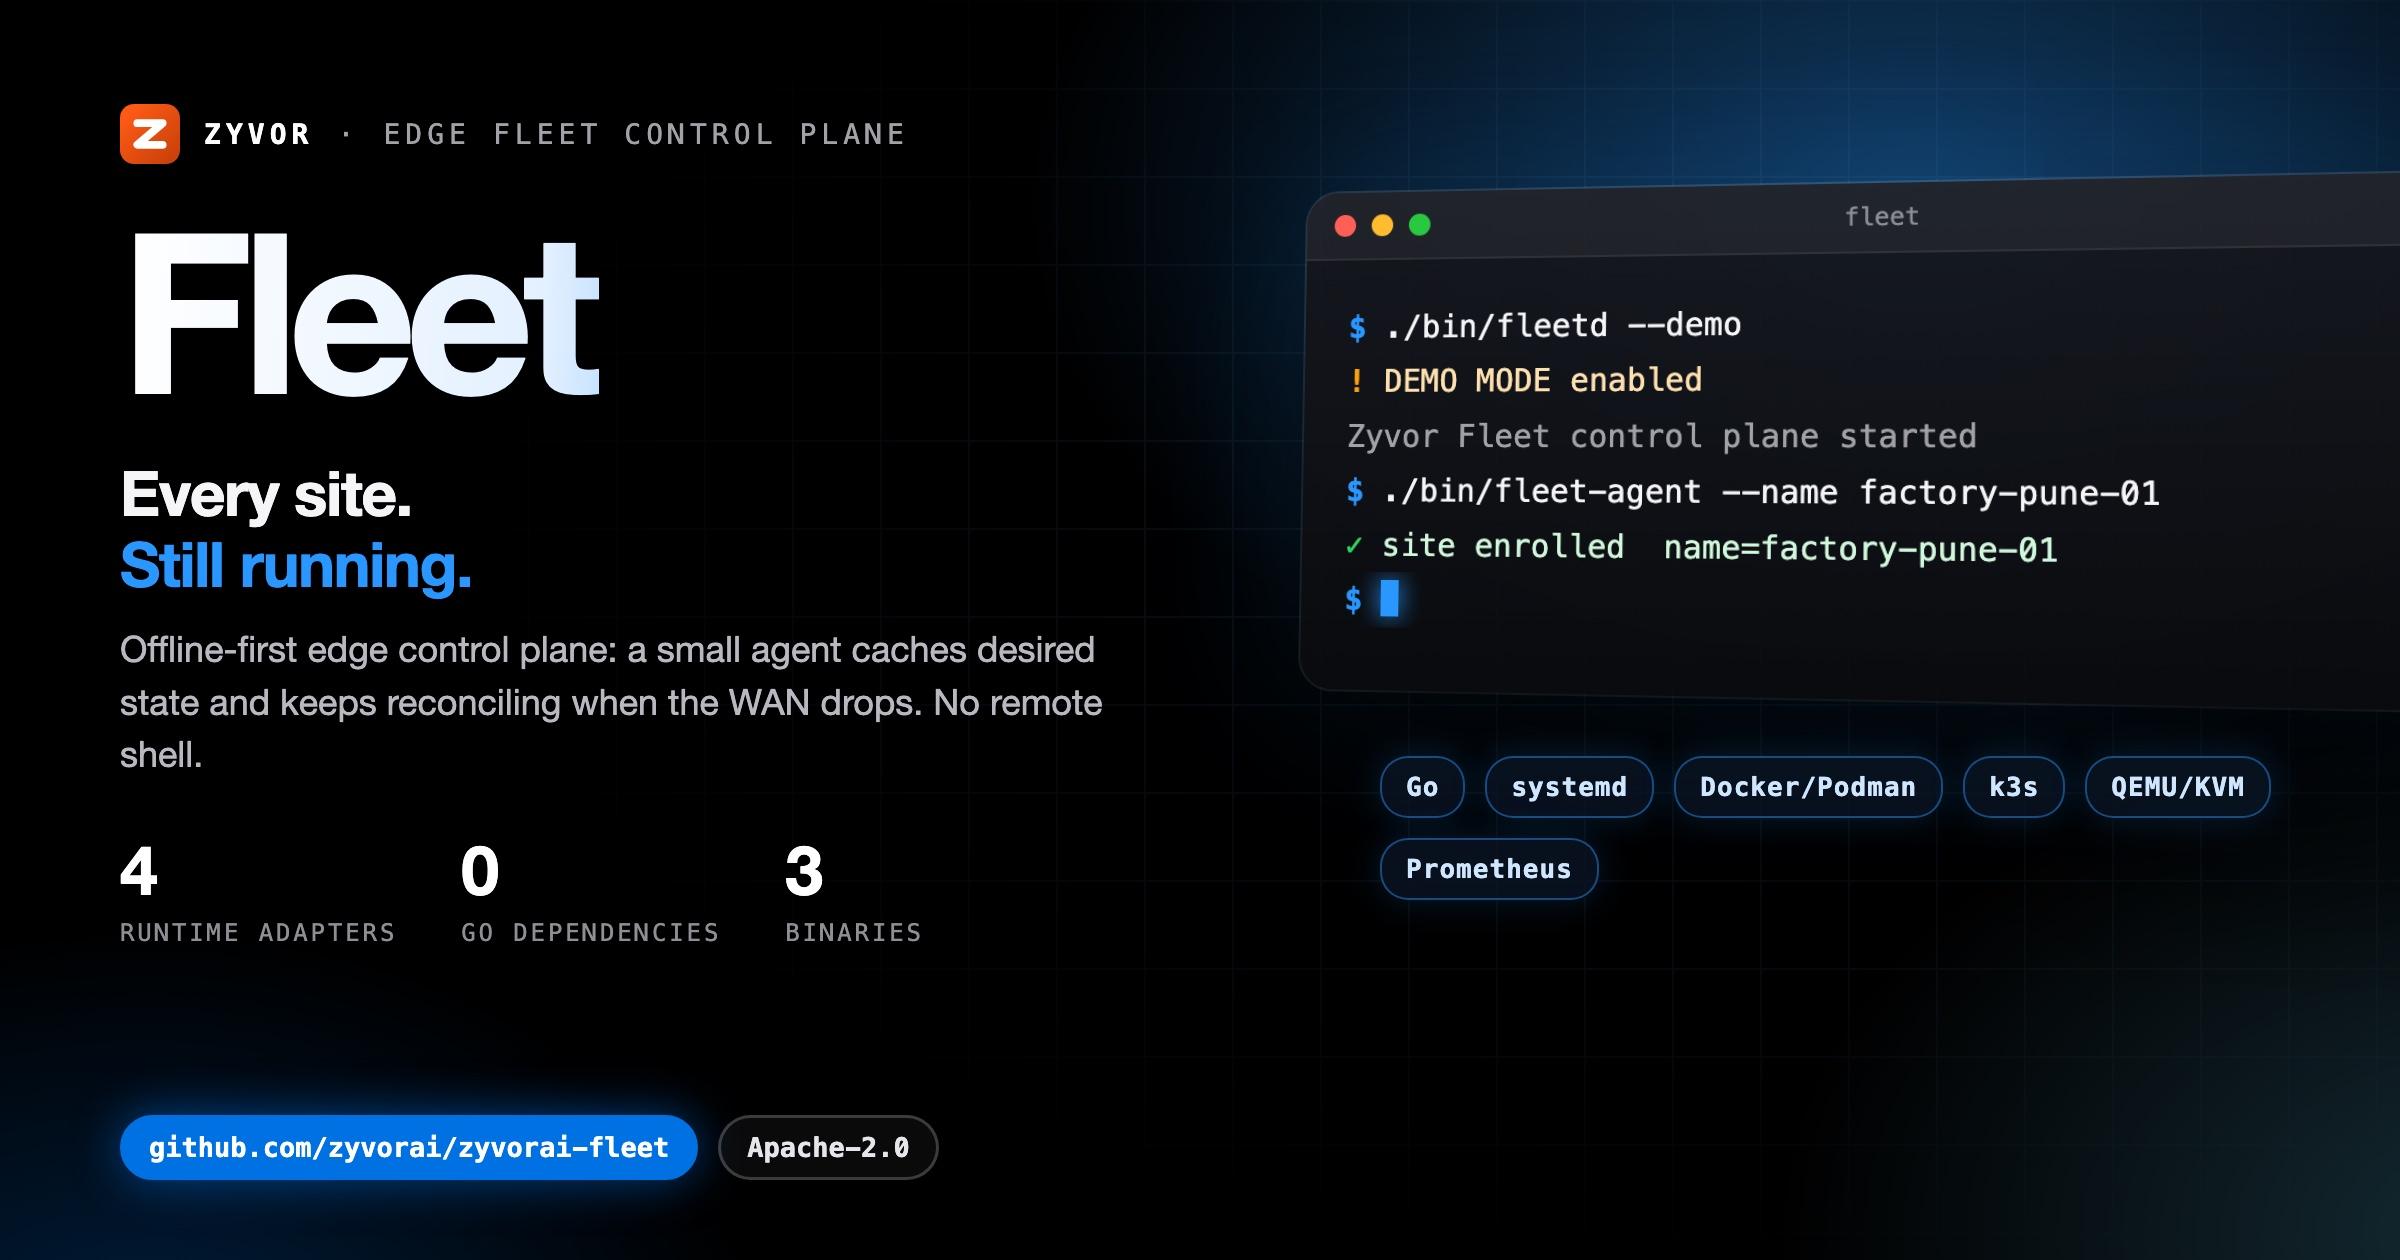
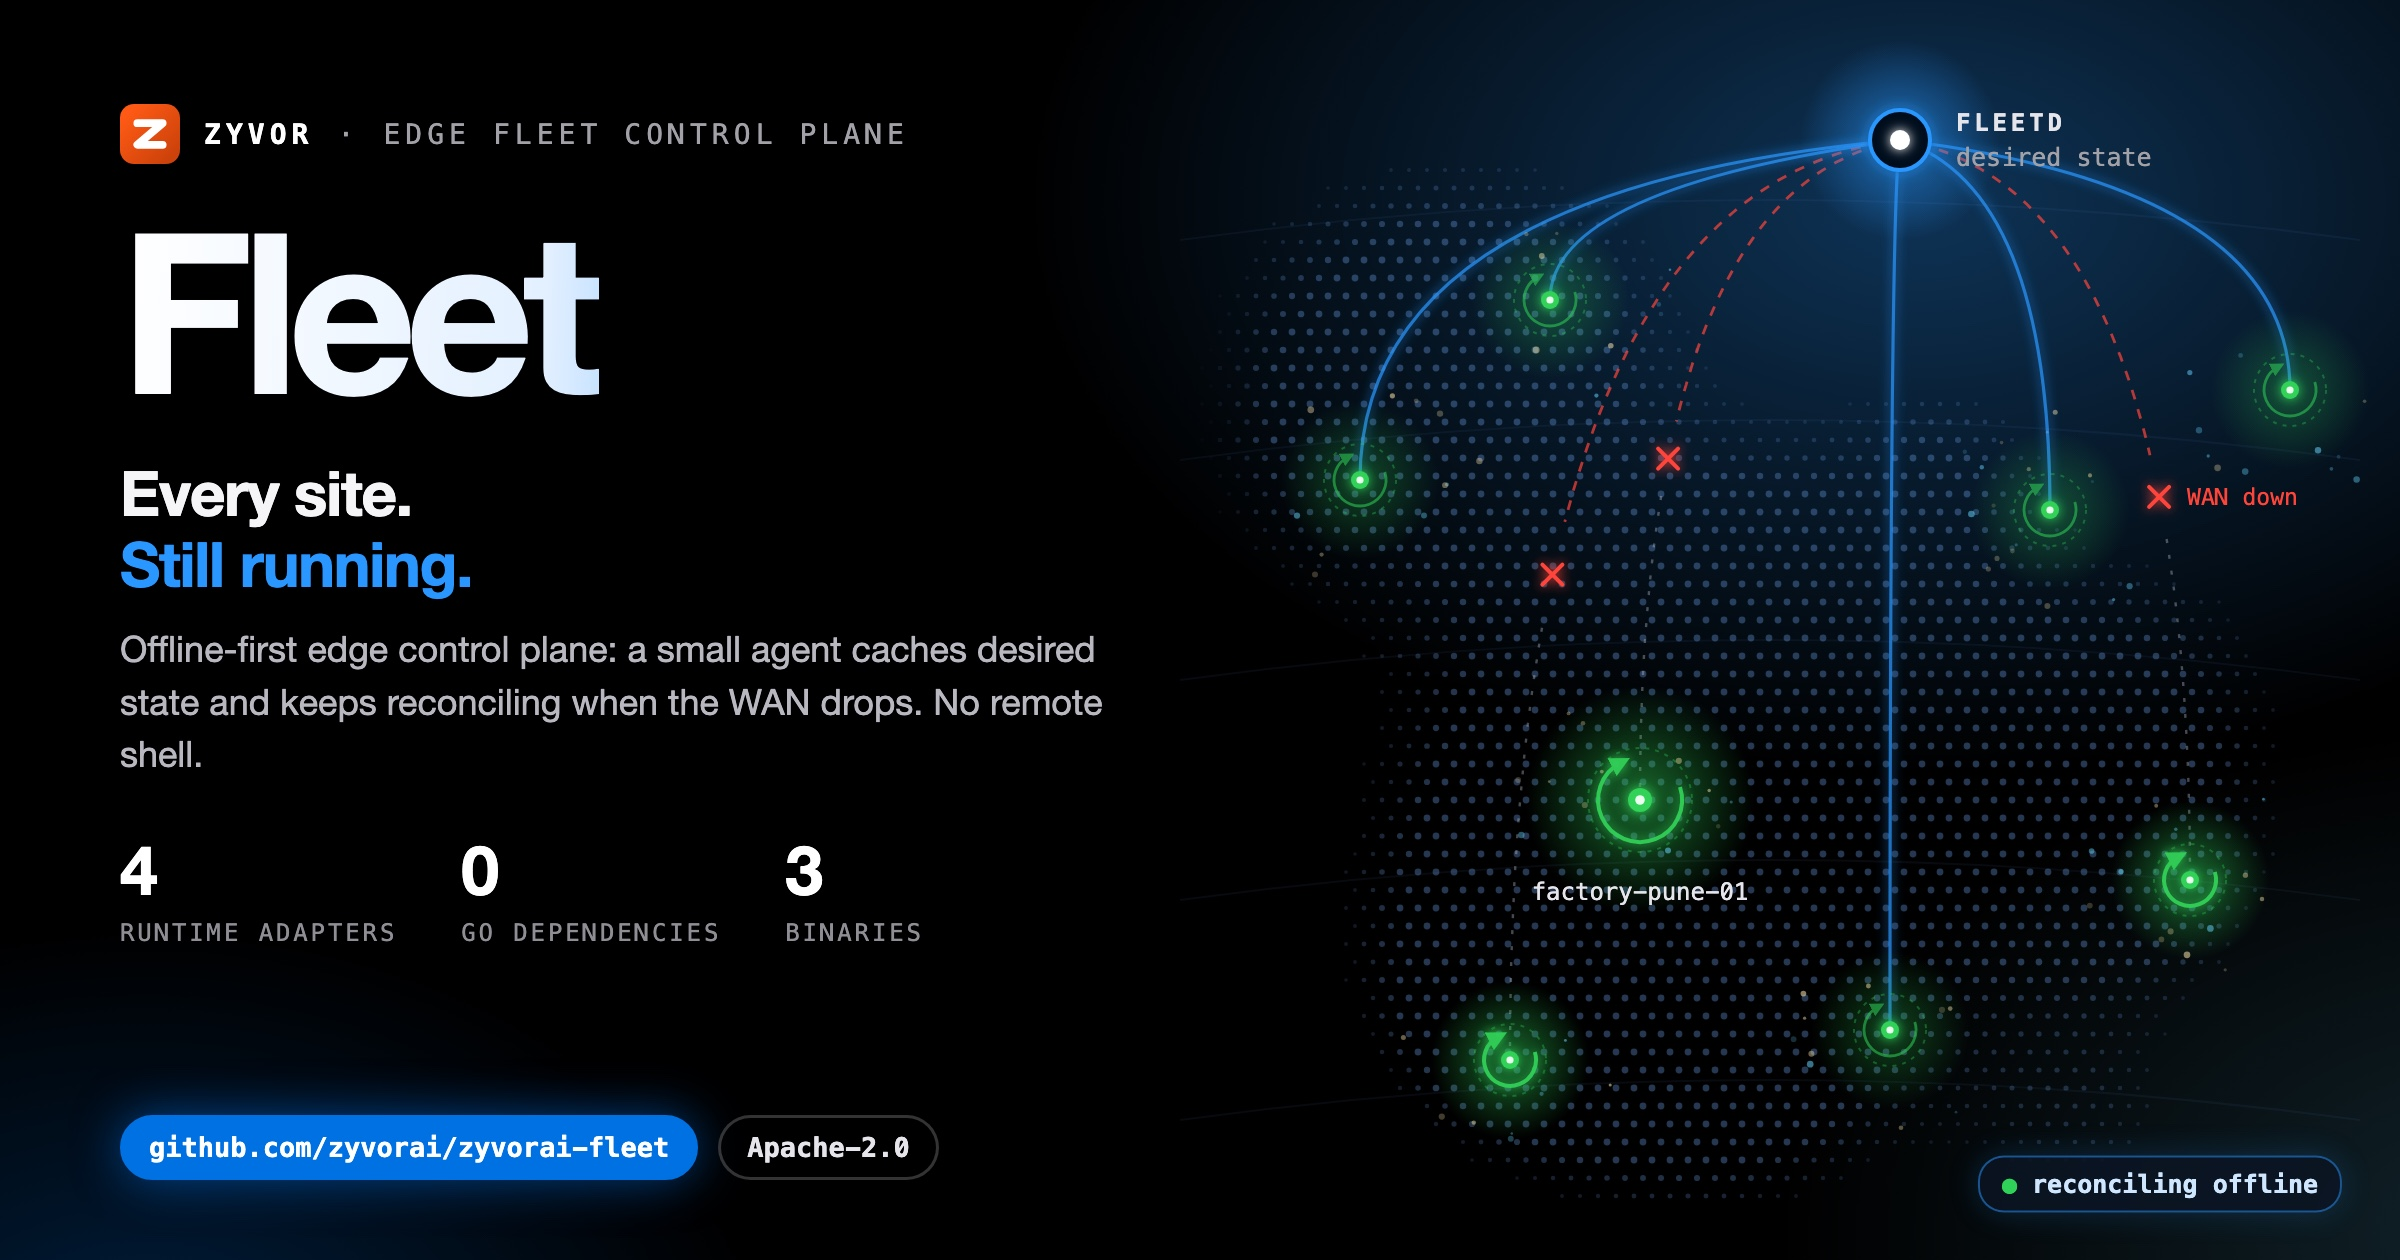
docs(social): unique illustrated hero card
Replace the shared terminal-window art with a motif drawn for this project;
same verified copy and stats on the left.

Changed region(s): [[0.5312, 0.0619, 1.0, 0.9286], [0.8125, 0.8976, 0.9688, 0.9905]]

diff --git a/docs/social/fleet-hero-dark.html b/docs/social/fleet-hero-dark.html
@@ -8,58 +8,47 @@
   Build: ./docs/social/build-hero-dark.sh  ->  fleet-hero-dark.jpg (2400x1260)
 -->
 <style>
-  :root { --blue:#0071e3; --signal:#2997ff; --cyan:#64d2ff; --green:#30d158; --amber:#ff9f0a;
+  :root { --blue:#0071e3; --signal:#2997ff; --cyan:#64d2ff; --green:#30d158; --amber:#ff9f0a; --red:#ff453a; --violet:#bf5af2;
     --sans:'SF Pro Display','Helvetica Neue',Helvetica,Arial,sans-serif; --mono:'SF Mono',Menlo,Consolas,monospace; }
   * { box-sizing:border-box; }
   html,body { margin:0; padding:0; }
   body { width:1200px; height:630px; overflow:hidden; color:#f5f5f7; font-family:var(--sans); position:relative; background:#000; }
   .aurora { position:absolute; inset:0;
-    background:radial-gradient(720px 460px at 80% 16%, rgba(41,151,255,.40), transparent 62%),
-               radial-gradient(600px 420px at 104% 98%, rgba(100,210,255,.20), transparent 60%),
+    background:radial-gradient(720px 460px at 80% 16%, rgba(41,151,255,.34), transparent 62%),
+               radial-gradient(600px 420px at 104% 98%, rgba(100,210,255,.16), transparent 60%),
                radial-gradient(520px 380px at 6% 110%, rgba(0,113,227,.28), transparent 60%); }
-  .grid { position:absolute; inset:0; opacity:.09;
-    background-image:linear-gradient(rgba(120,180,255,.9) 1px,transparent 1px),linear-gradient(90deg,rgba(120,180,255,.9) 1px,transparent 1px);
-    background-size:44px 44px; -webkit-mask-image:radial-gradient(900px 520px at 72% 42%, #000 18%, transparent 75%); }
-  .left { position:absolute; left:60px; top:52px; width:560px; z-index:3; }
+  .copy { position:absolute; left:60px; top:52px; width:560px; z-index:3; }
   .brand { display:flex; align-items:center; gap:12px; font-family:var(--mono); font-size:14px; letter-spacing:.18em; text-transform:uppercase; color:#a1a1a6; }
   .brand b { color:#fff; }
   .word { margin:20px 0 0; font-size:112px; line-height:.95; font-weight:800; letter-spacing:-.05em; white-space:nowrap;
     background:linear-gradient(92deg,#fff 0%,#e3f0ff 38%,var(--signal) 74%,var(--cyan) 100%); -webkit-background-clip:text; background-clip:text; color:transparent; padding-bottom:6px; }
   .tag { margin:14px 0 0; font-size:31px; line-height:1.15; font-weight:700; letter-spacing:-.02em; }
   .tag em { font-style:normal; color:var(--signal); }
-  .lede { margin:12px 0 0; font-size:18px; line-height:1.45; color:#b8b8bf; width:520px; }
+  .lede { margin:12px 0 0; font-size:18px; line-height:1.45; color:#b8b8bf; width:520px; text-shadow:0 1px 12px #000; }
   .stats { margin-top:24px; display:flex; gap:32px; }
   .stat b { display:block; font-size:34px; font-weight:800; letter-spacing:-.03em; color:#fff; }
   .stat span { font-family:var(--mono); font-size:12px; letter-spacing:.12em; text-transform:uppercase; color:#8e8e93; }
   .pill { position:absolute; left:60px; bottom:40px; display:flex; gap:10px; z-index:3; }
-  .pill span { font-family:var(--mono); font-size:13.5px; font-weight:700; padding:7px 13px; border-radius:18px; border:1.5px solid rgba(255,255,255,.2); color:#e5e5ea; background:rgba(255,255,255,.04); }
+  .pill span { font-family:var(--mono); font-size:13.5px; font-weight:700; padding:7px 13px; border-radius:18px; border:1.5px solid rgba(255,255,255,.2); color:#e5e5ea; background:rgba(0,0,0,.6); }
   .pill span.b { background:var(--blue); border-color:var(--blue); color:#fff; box-shadow:0 0 24px rgba(0,113,227,.55); }
-
-  .right { position:absolute; left:652px; top:96px; width:560px; z-index:2; }
-  .win { position:relative; width:560px; border-radius:16px; overflow:hidden; z-index:2;
-    background:linear-gradient(180deg, rgba(22,24,30,.94), rgba(10,11,14,.96));
-    box-shadow:0 50px 100px rgba(0,0,0,.75), 0 0 0 1px rgba(255,255,255,.14), 0 0 90px rgba(41,151,255,.22);
-    transform:perspective(1600px) rotateY(-14deg) rotateX(4deg); transform-origin:left center; }
-  .bar { height:34px; display:flex; align-items:center; gap:8px; padding:0 14px; background:rgba(255,255,255,.05); border-bottom:1px solid rgba(255,255,255,.07); }
-  .bar i { width:11px; height:11px; border-radius:50%; background:#ff5f57; } .bar i:nth-child(2){background:#febc2e} .bar i:nth-child(3){background:#28c840}
-  .bar em { margin-left:auto; margin-right:auto; font-style:normal; font-family:var(--mono); font-size:12px; color:#8e8e93; transform:translateX(-24px); }
-  .term { min-height:214px; padding:20px 22px 24px; font-family:var(--mono); font-size:15.5px; line-height:1.75; }
-  .l { white-space:pre; overflow:hidden; text-overflow:ellipsis; color:#f5f5f7; }
-  .l .p { color:var(--signal); font-weight:700; }
-  .l.out { color:#a1a1a6; }
-  .l.cm { color:#6e6e73; }
-  .l.ok { color:#d1f7dc; } .l.ok span { color:var(--green); font-weight:700; }
-  .l.warn { color:#ffe1b0; } .l.warn span { color:var(--amber); font-weight:700; }
-  .cur { display:inline-block; width:9px; height:18px; background:var(--signal); vertical-align:-3px; box-shadow:0 0 12px var(--signal); }
-  .chips { margin:34px 0 0 38px; width:480px; display:flex; flex-wrap:wrap; gap:10px; position:relative; z-index:3; }
-  .chips span { font-family:var(--mono); font-size:13px; font-weight:700; letter-spacing:.04em; padding:7px 12px; border-radius:14px;
-    color:#cfe6ff; background:rgba(10,20,35,.82); border:1px solid rgba(41,151,255,.45); box-shadow:0 0 18px rgba(41,151,255,.18); }
+  .art { position:absolute; left:520px; top:0; width:680px; height:630px; z-index:2; }
+  .art svg { display:block; }
+  #labels { position:absolute; inset:0; z-index:4; pointer-events:none; }
+  .lbl { position:absolute; font-family:var(--mono); font-size:12.5px; color:#a1a1a6; text-align:center; transform:translate(-50%,-50%); white-space:nowrap; }
+  .lbl b { display:block; font-size:12px; letter-spacing:.16em; text-transform:uppercase; color:#e5e5ea; }
+  .lbl span { display:block; margin-top:3px; }
+  .lbl.box { padding:7px 12px; border-radius:12px; background:rgba(8,10,14,.85); border:1px solid rgba(255,255,255,.14); }
+  .lbl.chip { padding:6px 11px; border-radius:13px; font-size:12.5px; font-weight:700; color:#cfe6ff; background:rgba(10,20,35,.85); border:1px solid rgba(41,151,255,.5); box-shadow:0 0 16px rgba(41,151,255,.2); }
+  .lbl.left { transform:translate(0,-50%); text-align:left; }
+  .lbl.right { transform:translate(-100%,-50%); text-align:right; }
+  .ok { color:var(--green) !important; } .warn { color:var(--amber) !important; } .bad { color:var(--red) !important; } .sig { color:var(--signal) !important; } .cy { color:var(--cyan) !important; } .vi { color:var(--violet) !important; }
 </style>
 </head>
 <body>
 <div class="aurora"></div>
-<div class="grid"></div>
-<div class="left">
+<div class="art"><svg id="art" width="680" height="630" viewBox="0 0 680 630" xmlns="http://www.w3.org/2000/svg"></svg></div>
+<div id="labels"></div>
+<div class="copy">
   <div class="brand"><svg viewBox="0 0 64 64" width="30" height="30" aria-hidden="true"><defs><linearGradient id="zb" x1="8" y1="8" x2="56" y2="56" gradientUnits="userSpaceOnUse"><stop offset="0" stop-color="#ff5a15"/><stop offset="1" stop-color="#cc420a"/></linearGradient></defs><rect width="64" height="64" rx="15" fill="url(#zb)"/><path d="M18.5,20.5 45.5,20.5 18.5,43.5 45.5,43.5" fill="none" stroke="#fff" stroke-width="8.3" stroke-linecap="round" stroke-linejoin="round"/></svg><b>Zyvor</b><span>&middot;</span><span>Edge fleet control plane</span></div>
   <div class="word">Fleet</div>
   <div class="tag">Every site.<br><em>Still running.</em></div>
@@ -67,8 +56,98 @@
   <div class="stats"><div class="stat"><b>4</b><span>runtime adapters</span></div><div class="stat"><b>0</b><span>Go dependencies</span></div><div class="stat"><b>3</b><span>binaries</span></div></div>
 </div>
 <div class="pill"><span class="b">github.com/zyvorai/zyvorai-fleet</span><span>Apache-2.0</span></div>
-<div class="right"><div class="win"><div class="bar"><i></i><i></i><i></i><em>fleet</em></div>
-<div class="term"><div class="l"><span class="p">$</span> ./bin/fleetd --demo</div><div class="l warn"><span>!</span> DEMO MODE enabled</div><div class="l out">Zyvor Fleet control plane started</div><div class="l"><span class="p">$</span> ./bin/fleet-agent --name factory-pune-01</div><div class="l ok"><span>&#10003;</span> site enrolled  name=factory-pune-01</div><div class="l"><span class="p">$</span> <i class="cur"></i></div></div></div>
-<div class="chips"><span>Go</span><span>systemd</span><span>Docker/Podman</span><span>k3s</span><span>QEMU/KVM</span><span>Prometheus</span></div></div>
+<script>
+var Z = (function () {
+  var NS = 'http://www.w3.org/2000/svg', svg = document.getElementById('art'), labels = document.getElementById('labels');
+  var seed = 20261004;
+  function rnd() { seed = (seed * 1103515245 + 12345) % 2147483648; return seed / 2147483648; }
+  function el(tag, a, parent) { var n = document.createElementNS(NS, tag); for (var k in a) n.setAttribute(k, a[k]); (parent || svg).appendChild(n); return n; }
+  function g(attrs) { return el('g', attrs || {}); }
+  function label(x, y, inner, cls, style) { var d = document.createElement('div'); d.className = 'lbl ' + (cls || ''); d.style.left = (520 + x) + 'px'; d.style.top = y + 'px'; if (style) d.setAttribute('style', d.getAttribute('style') + ';' + style); d.innerHTML = inner; labels.appendChild(d); return d; }
+  return { NS: NS, svg: svg, W: 680, H: 630, rnd: rnd, el: el, g: g, label: label,
+    reseed: function (s) { seed = s; },
+    c: { blue: '#0071e3', signal: '#2997ff', cyan: '#64d2ff', green: '#30d158', amber: '#ff9f0a', red: '#ff453a', violet: '#bf5af2', teal: '#40c8e0', indigo: '#5e5ce6', pink: '#ff375f', white: '#f5f5f7', grey: '#8e8e93' } };
+})();
+(function () {
+// Fleet: night map of edge sites. Some WAN links are cut, but every site keeps glowing with its own cached desired state and reconcile loop.
+var C = Z.c;
+var defs = Z.el('defs', {});
+defs.innerHTML = '<filter id="flGl" filterUnits="userSpaceOnUse" x="-50" y="-50" width="780" height="730"><feGaussianBlur stdDeviation="3" result="b"/><feMerge><feMergeNode in="b"/><feMergeNode in="SourceGraphic"/></feMerge></filter>' +
+  '<filter id="flSf" filterUnits="userSpaceOnUse" x="-50" y="-50" width="780" height="730"><feGaussianBlur stdDeviation="12"/></filter>' +
+  '<radialGradient id="flSite"><stop offset="0" stop-color="#30d158" stop-opacity=".55"/><stop offset="1" stop-color="#30d158" stop-opacity="0"/></radialGradient>' +
+  '<radialGradient id="flHub"><stop offset="0" stop-color="#2997ff" stop-opacity=".6"/><stop offset="1" stop-color="#2997ff" stop-opacity="0"/></radialGradient>' +
+  '<marker id="flArr" viewBox="0 0 10 10" refX="5" refY="5" markerWidth="5" markerHeight="5" orient="auto-start-reverse"><path d="M0,0 L10,5 L0,10 z" fill="#30d158"/></marker>';
+
+// landmass as a halftone dot map: union of soft blobs
+var blobs = [];
+for (var b = 0; b < 16; b++) blobs.push([130 + Z.rnd() * 500, 150 + Z.rnd() * 420, 50 + Z.rnd() * 80]);
+blobs.push([360, 330, 150], [520, 420, 110], [230, 470, 90]);
+function land(x, y) {
+  var v = 0;
+  for (var k = 0; k < blobs.length; k++) { var dx = x - blobs[k][0], dy = (y - blobs[k][1]) * 1.2; v += Math.exp(-(dx * dx + dy * dy) / (blobs[k][2] * blobs[k][2])); }
+  return v;
+}
+var tex = Z.g({});
+for (var y = 40; y < 600; y += 9) for (var x = 70; x < 660; x += 9) {
+  var v = land(x, y);
+  if (v < .95) continue;
+  var edge = Math.min(1, (v - .95) * 1.6), fade = x < 110 ? (x - 70) / 40 : 1;
+  Z.el('circle', { cx: x + ((y / 9) % 2) * 4.5, cy: y, r: (0.9 + edge * .8).toFixed(2), fill: '#6a9be0', opacity: (fade * (.14 + edge * .22)).toFixed(3) }, tex);
+}
+// faint latitude arcs
+for (var i = 0; i < 5; i++) Z.el('path', { d: 'M70,' + (120 + i * 110) + ' Q365,' + (80 + i * 110) + ' 660,' + (120 + i * 110), fill: 'none', stroke: 'rgba(120,170,255,.06)' });
+
+var hub = [430, 70];
+var sites = [
+  { x: 160, y: 240, up: true }, { x: 300, y: 400, up: false, name: 'factory-pune-01' }, { x: 505, y: 255, up: true },
+  { x: 575, y: 440, up: false }, { x: 625, y: 195, up: true }, { x: 235, y: 530, up: false }, { x: 255, y: 150, up: true },
+  { x: 425, y: 515, up: true }
+];
+// WAN links
+sites.forEach(function (s, i) {
+  var d = 'M' + hub[0] + ',' + hub[1] + ' Q' + s.x + ',' + (hub[1] + 24) + ' ' + s.x + ',' + s.y;
+  var p = Z.el('path', { d: d, fill: 'none', stroke: s.up ? C.signal : 'none', 'stroke-width': 1.6, opacity: .75 });
+  if (s.up) { p.setAttribute('filter', 'url(#flGl)'); return; }
+  // cut WAN link: dashed red up to the break, faint grey after it
+  var L = p.getTotalLength(), q = p.getPointAtLength(L * .55);
+  function seg(t0, t1) { var dd = ''; for (var t = t0; t <= t1 + 1e-6; t += .01) { var pt = p.getPointAtLength(L * t); dd += (dd ? ' L' : 'M') + pt.x.toFixed(1) + ',' + pt.y.toFixed(1); } return dd; }
+  Z.el('path', { d: seg(0, .5), fill: 'none', stroke: C.red, 'stroke-width': 1.4, opacity: .7, 'stroke-dasharray': '5 5' });
+  Z.el('path', { d: seg(.6, 1), fill: 'none', stroke: 'rgba(200,210,230,.35)', 'stroke-width': 1.2, 'stroke-dasharray': '2 6' });
+  Z.el('path', { d: 'M' + (q.x - 5) + ',' + (q.y - 5) + ' l10,10 M' + (q.x + 5) + ',' + (q.y - 5) + ' l-10,10', stroke: C.red, 'stroke-width': 2, 'stroke-linecap': 'round', filter: 'url(#flGl)' });
+  s.cut = q;
+});
+
+// hub: fleetd control plane
+Z.el('circle', { cx: hub[0], cy: hub[1], r: 50, fill: 'url(#flHub)' });
+Z.el('circle', { cx: hub[0], cy: hub[1], r: 15, fill: '#06101c', stroke: C.signal, 'stroke-width': 2, filter: 'url(#flGl)' });
+Z.el('circle', { cx: hub[0], cy: hub[1], r: 5, fill: '#fff', filter: 'url(#flGl)' });
+
+// sites: green core, cache ring, reconcile loop arrow
+sites.forEach(function (s, i) {
+  var big = !!s.name, R = big ? 26 : 18;
+  Z.el('circle', { cx: s.x, cy: s.y, r: R * 2.2, fill: 'url(#flSite)', opacity: s.up ? .55 : .9 });
+  Z.el('circle', { cx: s.x, cy: s.y, r: R, fill: 'none', stroke: C.green, 'stroke-width': 1, opacity: .35, 'stroke-dasharray': '2 3' });
+  // reconcile loop (3/4 arc with arrowhead) - brighter where WAN is down
+  var a0 = -Math.PI * .1, a1 = Math.PI * 1.35, r = R - 5;
+  var x0 = s.x + r * Math.cos(a0), y0 = s.y + r * Math.sin(a0), x1 = s.x + r * Math.cos(a1), y1 = s.y + r * Math.sin(a1);
+  Z.el('path', { d: 'M' + x0.toFixed(1) + ',' + y0.toFixed(1) + ' A' + r + ',' + r + ' 0 1 1 ' + x1.toFixed(1) + ',' + y1.toFixed(1), fill: 'none', stroke: C.green, 'stroke-width': s.up ? 1.4 : 2, opacity: s.up ? .55 : .95, 'marker-end': 'url(#flArr)', filter: s.up ? null : 'url(#flGl)' });
+  // cached revision: small stacked disk at the core
+  Z.el('circle', { cx: s.x, cy: s.y, r: big ? 6 : 4.5, fill: C.green, filter: 'url(#flGl)' });
+  Z.el('circle', { cx: s.x, cy: s.y, r: big ? 2.4 : 1.8, fill: '#eafff0' });
+});
+
+// city lights scattered near sites
+for (var i = 0; i < 90; i++) {
+  var s = sites[Math.floor(Z.rnd() * sites.length)], a = Z.rnd() * Math.PI * 2, rr = 26 + Z.rnd() * 40;
+  Z.el('circle', { cx: (s.x + rr * Math.cos(a)).toFixed(1), cy: (s.y + rr * Math.sin(a) * .8).toFixed(1), r: (0.6 + Z.rnd() * 1.1).toFixed(2), fill: Z.rnd() > .4 ? '#ffe7b0' : C.cyan, opacity: (.15 + Z.rnd() * .4).toFixed(2) });
+}
+
+Z.label(hub[0] + 28, hub[1], '<b>fleetd</b><span>desired state</span>', 'left');
+Z.label(300, 446, 'factory-pune-01', '', 'color:#e5e5ea;font-size:12px');
+var cs = sites[3].cut;
+Z.label(cs.x + 14, cs.y, 'WAN down', 'left bad', 'font-size:11.5px');
+Z.label(560, 592, '<span class="ok" style="display:inline">&#9679;</span> reconciling offline', 'chip');
+})();
+</script>
 </body>
 </html>
